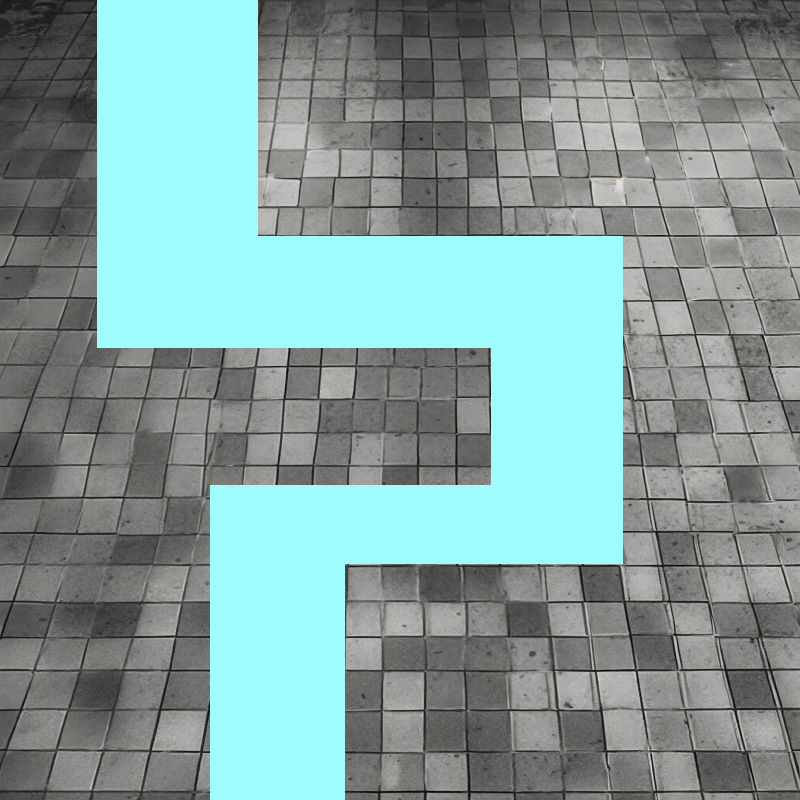
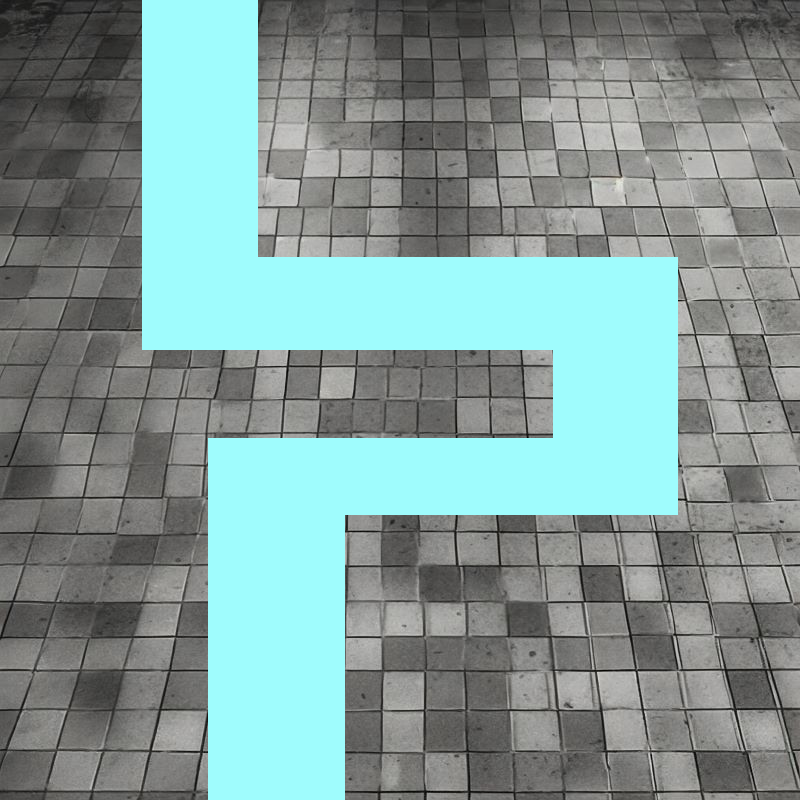
fixed scrolling issue

Changed region(s): [[0.25, 0.2812, 0.875, 0.7188], [0.0938, 0.0, 0.1875, 0.4375]]

diff --git a/scripts/script.js b/scripts/script.js
@@ -116,6 +116,7 @@ const game = {
       game.repositionOrbForLevel(1);
       $('#closed-door').hide();
 
+
     }
     else {
       game.repositionOrbForLevel(player.score);
@@ -124,7 +125,20 @@ const game = {
       $('#closed-door').hide();
       game.currentPath = game.basePath + player.score + ".png"; 
     }
-
+  },
+  gameOver() {
+    game.switchScreen("game-over-screen");
+    $('#game-over-title-heading').text("Game Over");
+    $('#restart-level').show();
+    const gameOverScreen = $("#game-over-screen");
+    gameOverScreen.css("background-image", 'url("../images/GameOver.jpg")');
+    const finalScore = player.score - 1;
+    if (finalScore > 0) {
+      $('#game-over-description').html(`You lost, please try again<br>Last level completed: Level ${finalScore}`);
+    }
+    else {
+      $('#game-over-description').html(`You lost<br>please try again`);
+    }
   },
   init() {
     $('h1').text("Cursed Corridors: The Abandoned Maze")
@@ -133,11 +147,11 @@ const game = {
     });
 
     $("#username-submit-btn").on("click", (event) => {
-      let name = game.enteredPlayerName.value;
-      if (name != "") {
+      let name = game.enteredPlayerName.value.trim();
+      if (name) {
         event.preventDefault();
         //store the player name in the scoreboard
-        name = game.enteredPlayerName.value;
+        name = game.enteredPlayerName.value.trim();
         game.playerName.textContent = name;
         player.name = name;
         player.updatePlayerName(name);
@@ -159,11 +173,15 @@ const game = {
         $('.cursor').show();
         $('body').css('cursor', 'none');
       }
-    })
+    });
 
-    $("#game-help-close").on("click", function() {
+    // $("#game-help-close").on("click", function() {
+    //   game.gameHelpClose = true;
+    // });
+
+    $("#initiate-modal").on("hide.bs.modal", function() {
       game.gameHelpClose = true;
-    })
+    });
 
     $("#closed-door").on("click", function(event) {
       event.preventDefault();
@@ -173,7 +191,6 @@ const game = {
         if (player.score !== 5) {
           player.score = player.score + 1;
           game.updatePlayerScoreDOM();
-          console.log("score" + player.score);
           game.switchLevel(player.score);
           game.runGame();
           setTimeout(function() {
@@ -215,6 +232,12 @@ const game = {
       $("#setup-modal").modal('show');
     });
 
+
+    $("#player-details").on("mouseover", (event) => {
+      if (game.isRunning === true) {
+        game.gameOver();
+      }
+    });
     $(".close").on("click", (event) => {
       if (game.currentScreen === "splash-screen") {
           $("#setup-modal").modal('hide');
@@ -252,12 +275,6 @@ const game = {
       const ctx = game.canvasElement.getContext("2d");
       ctx.drawImage(mazeImgElement, 0, 0);
 
-      // ctx.beginPath();
-      // ctx.lineWidth = "100";
-      // ctx.strokeStyle = "purple";
-      // ctx.rect(50, 50, 500, 700);
-      // ctx.stroke();
-
       //set up event listener to get cursor position when it hovers over canvas
       game.canvasElement.addEventListener("mousemove", (e) => {
         const pos = getMousePos(game.canvasElement, e);
@@ -272,19 +289,12 @@ const game = {
 
       const x = e.x;
       const y = e.y;
-      const srgbData = ctx.getImageData(x, y, 1, 1).data; 
-// console.log(x, y);
-      if (srgbData[0] != 159 && game.isRunning === true) {
-        game.switchScreen("game-over-screen");
-        $('#game-over-title-heading').text("Game Over");
-        $('#restart-level').show();
-        const finalScore = player.score - 1;
-        if (finalScore > 0) {
-          $('#game-over-description').html(`You lost, please try again<br>Last level completed: Level ${finalScore}`);
-        }
-        else {
-          $('#game-over-description').html(`You lost<br>please try again`);
-        }       
+      console.log("x: " + x + " y:" + y);
+      console.log("left: " + game.canvasElement.left + " top:" + game.canvasElement.top);
+
+      const srgbData = ctx.getImageData(x, y, 1, 1).data;
+      if (srgbData[0] != 159 && game.isRunning === true) {    
+        game.gameOver();  
       }
 
     };
@@ -317,7 +327,7 @@ const game = {
 const cursorSmall = document.querySelector('.small');
 
 const positionElement = (e)=> {
-  const mouseY = e.clientY;
+  const mouseY = e.clientY + $(window).scrollTop();
   const mouseX = e.clientX;
 
   cursorSmall.style.transform = `translate3d(${mouseX}px, ${mouseY}px, 0)`;
@@ -346,8 +356,8 @@ class Position {
 
 
 let levelPositions = {
-  1 : {"start": new Position("750px", "135px"), "end": new Position("2px", "260px")},
-  2 : {"start": new Position("2px", "260px"), "end": new Position("580px", "50px")},
+  1 : {"start": new Position("750px", "165px"), "end": new Position("2px", "260px")},
+  2 : {"start": new Position("15px", "260px"), "end": new Position("580px", "50px")},
   3 : {"start": new Position("580px", "50px"), "end": new Position("90px", "715px")},
   4 : {"start": new Position("90px", "715px"), "end": new Position("710px", "735px")},
   5 : {"start": new Position("710px", "735px"), "end": new Position("260px", "300px")},

diff --git a/index.html b/index.html
@@ -133,7 +133,7 @@
                         <form id="username-form">
                             <div class="form-group">
                               <label for="exampleInputUsername1"></label>
-                              <input type="text" class="form-control" id="exampleInputUsername1" aria-describedby="usernameHelp" placeholder="                        Username">
+                              <input type="text" class="form-control" maxlength="15" id="exampleInputUsername1" aria-describedby="usernameHelp" placeholder="                        Username">
                               <small id="usernameHelp" class="form-text"></small>
                             </div>
                             <button type="submit" class="neon" id ="username-submit-btn">ENTER THE MAZE...</button>

diff --git a/styles/style.css b/styles/style.css
@@ -133,13 +133,11 @@ p {
     text-align: center;
 }
 #player-details {
-    color: white;
-    height: 60px;
+    height: 40px;
     position: absolute;
     z-index: 2;
-    bottom: 750px;
-    width: 800px;
-    text-align: center;
+    bottom: 770px;
+    width: 130px;
     text-transform: uppercase;
     color: #03bcf4;
     font-weight: bold;
@@ -234,11 +232,11 @@ margin-top: 25px;
 }
 
 #orb {
-    width: 50px;
+    width: 40px;
     position: absolute;
     z-index: 2;
     bottom: 750px;
-    left: 135px;
+    left: 165px;
     cursor: pointer;
 }
 
